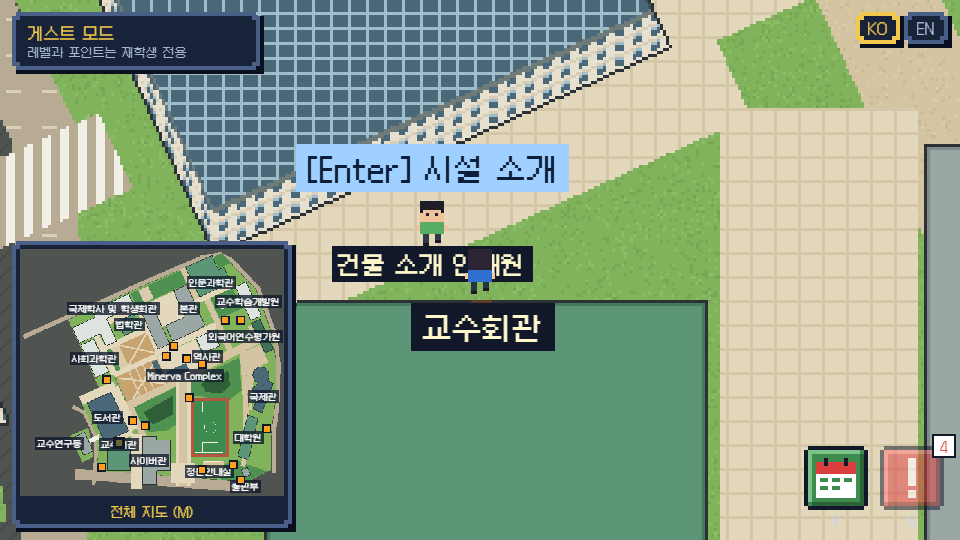
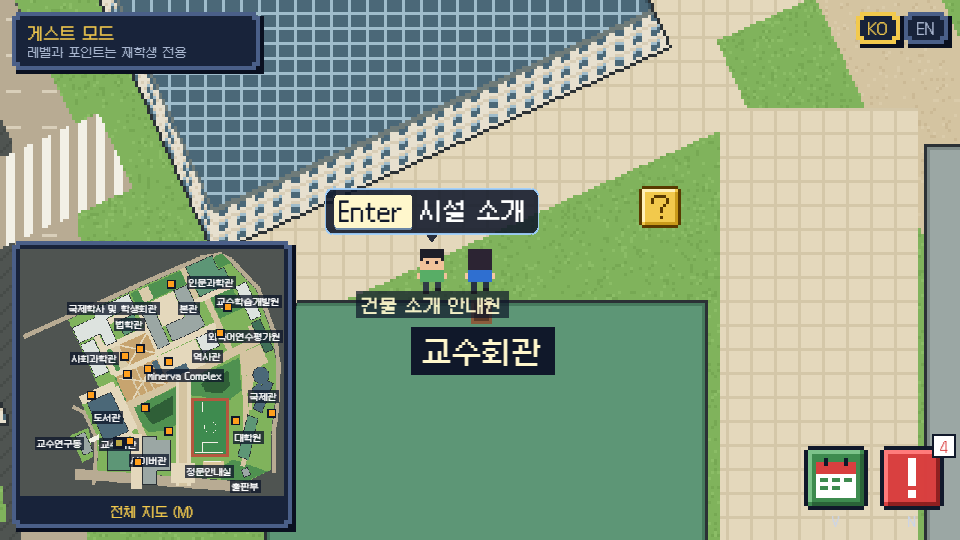
feat: 건물 소개 안내원을 문 바로 옆 칸으로, 문구를 작은 말풍선 · 발밑 이름표로
- 위치(11/26 #75 검토): 문 앞 칸에서 한 칸(16px) 옆, 문과 같은 외벽 앞. 두 옆 칸이 모두 막히면 예전 자리(GUIDE_FALLBACK).
  국제관은 꺾인 외벽 안쪽이라 두 옆 칸이 모두 안 돼 예전 자리 그대로. Minerva Complex는 이름표 옆 그대로
- 문구: "[Enter] 시설 소개"를 남색 반투명 작은 말풍선(얇은 하늘색 테두리 · 꼬리) + Enter 키 모양으로(src/ui/guidePrompt.js, 8px),
  "건물 소개 안내원"은 발밑 작은 이름표(6px, 반투명 남색). 글꼴 Galmuri9, 색은 HUD 색. 터치 · 영어도 같은 모양, 퀴즈 문구는 그대로
- 테스트: 문 바로 옆 칸(16px, 같은 외벽), 예전 자리는 국제관뿐, 교수회관 위치. 11/25 "교수회관 글자 지붕 밖" 테스트는 새 위치 규칙과 맞지 않아 위치 테스트로 바꿈
- 스크린샷: 전후 4곳(style-*), 휴대폰 가로 한/영, 퀴즈 문구와 함께, 건물별 14장 다시 찍음

diff --git a/src/data/guides.js b/src/data/guides.js
@@ -6,16 +6,17 @@ import { estimateLabelSize, placeBuildingLabel, splitTwoLines } from "./building
  * 맵 v2에서 "건물 소개 안내원"(정문 옆 NPC)을 세울 자리를 정합니다(브라우저 API 없음 → 테스트 가능).
  * 대상: 사무실 안내가 있는 건물(officeView.js hasOfficeInfo, 제외 목록 GUIDE_EXCLUDED의 정문안내실은 빠짐).
  *       정문을 지정한 11개 건물(DOOR_OVERRIDES)과 법학관(자동 계산 정문) — 11/25 종헌 결정.
- * - 문 앞 칸 옆(문을 바라보고 섰을 때 옆쪽): 아래 · 위쪽 면의 문은 좌우로, 왼쪽 · 오른쪽 면의 문은 위아래로 16 · 24 · 32px.
- *   벽에서 한두 칸(8 · 16px) 물러선 자리도 후보로 봅니다(꺾인 외벽 · 글자가 지붕에 걸치는 자리, 예: 교수회관).
- * - 걸어서 닿는 칸, 어느 문 앞 칸과도 겹치지 않음, 안내원 칸을 막아도 주변 길이 끊기지 않음.
- * - 그 가운데 안내원 아래 글자가 건물 지붕을 가장 적게 덮는 자리(글자는 되도록 땅 위). 같으면 벽에 붙은 자리 · 문에 가까운 자리.
+ * - 11/26 #75 검토(종헌): 문 그림 바로 옆 칸(문과 같은 외벽 앞, 문 앞 칸에서 한 칸 = 16px 옆). 아래 · 위쪽 면의 문은 좌우로,
+ *   왼쪽 · 오른쪽 면의 문은 위아래로. 두 옆 칸이 모두 되면 안내원 글자가 지붕을 덜 덮는 쪽.
+ * - 조건: 걸어서 닿는 칸, 어느 문 앞 칸과도 겹치지 않음, 안내원 칸을 막아도 주변 길이 끊기지 않음.
+ * - 두 옆 칸이 모두 안 되면 예전 규칙(문 앞 칸에서 16~32px, 벽에서 0~16px 물러선 자리 중 글자가 지붕을 가장 적게 덮는 곳)으로
+ *   두고 GUIDE_FALLBACK에 남깁니다(보고용).
  * - 건물 이름표는 이 글자 칸을 피해 자리를 잡습니다(buildingLabels.js placeBuildingLabel의 avoid).
  * - 예외 GUIDE_NEAR_LABEL(Minerva Complex): 정문 대신 맵 위 건물 이름표 바로 옆(걸을 수 있는 칸)에 섭니다.
  * 맵 다각형 · 충돌 판정은 바꾸지 않고 읽기만 합니다. 안내원 칸은 CampusScene이 이동할 때만 막습니다.
  */
-export const GUIDE_TEXT_HALF = 40; // 안내원 아래 글자 칸 가로 반폭(px). "건물 소개 안내원" 8px 글씨 + 여백보다 조금 넓게
-export const guideTextRect = (g) => ({ x0: g.x - GUIDE_TEXT_HALF, x1: g.x + GUIDE_TEXT_HALF, y0: g.y + 8, y1: g.y + 20 });
+export const GUIDE_TEXT_HALF = 30; // 안내원 발밑 이름표 칸 가로 반폭(px). "건물 소개 안내원" 6px 글씨 + 여백보다 조금 넓게
+export const guideTextRect = (g) => ({ x0: g.x - GUIDE_TEXT_HALF, x1: g.x + GUIDE_TEXT_HALF, y0: g.y + 7, y1: g.y + 17 });
 const overlaps = (a, b) => a.x0 < b.x1 && b.x0 < a.x1 && a.y0 < b.y1 && b.y0 < a.y1;
 
 // 안내원 칸을 막았을 때 그 둘레(24px 안)의 갈 수 있는 격자점이 서로 이어져 있는지(가로세로 64px 창 안에서 확인)
@@ -87,6 +88,9 @@ function spotNearLabel(building) {
 }
 
 const spots = new Map();
+const BESIDE = 16; // 문 앞 칸에서 한 칸 옆
+// 문 바로 옆 두 칸이 모두 안 돼 예전 규칙으로 둔 건물(보고용)
+export const GUIDE_FALLBACK = new Set();
 export function guideSpotOf(building) {
   if (spots.has(building.id)) return spots.get(building.id);
   if (Object.hasOwn(GUIDE_NEAR_LABEL, building.id)) {
@@ -101,6 +105,24 @@ export function guideSpotOf(building) {
     const along = face === "left" || face === "right" ? [0, 1] : [1, 0];
     const outward = { down: [0, 1], up: [0, -1], right: [1, 0], left: [-1, 0] }[face];
     const fronts = BUILDINGS.map(doorFrontOf).filter(Boolean);
+    const usable = (spot) =>
+      fits(spot.x, spot.y) &&
+      isReachable(spot.x, spot.y) &&
+      !fronts.some((f) => feetOverlap(f.x, f.y, spot.x, spot.y) || Math.hypot(f.x - spot.x, f.y - spot.y) < 12) &&
+      keepsPathsOpen(spot);
+    // 1순위: 문 바로 옆 칸(같은 외벽 앞, 한 칸 = 16px 옆)
+    for (const off of [-BESIDE, BESIDE]) {
+      const spot = { x: front.x + along[0] * off, y: front.y + along[1] * off };
+      if (!usable(spot)) continue;
+      const roof = roofUnder(guideTextRect(spot));
+      if (!best || roof < best.roof) best = { ...spot, roof };
+    }
+    if (best) {
+      const found = { x: best.x, y: best.y };
+      spots.set(building.id, found);
+      return found;
+    }
+    GUIDE_FALLBACK.add(building.id);
     const offsets = [0, 8, 16].flatMap((out) => [-16, 16, -24, 24, -32, 32].map((off) => [off, out]));
     for (const [off, out] of offsets) {
       const spot = { x: front.x + along[0] * off + outward[0] * out, y: front.y + along[1] * off + outward[1] * out };

diff --git a/src/scenes/CampusScene.js b/src/scenes/CampusScene.js
@@ -4,6 +4,7 @@ import { buildCampusLayers } from "../data/campus.js";
 import { WORLD, findPlace } from "../data/world.js";
 import { feetOverlap } from "../data/campusV2.js";
 import { guideTextRect } from "../data/guides.js";
+import { GuidePrompt } from "../ui/guidePrompt.js";
 import { addCampusV2Ground, stats as campusStats } from "../gfx/campusV2Texture.js";
 import { placeBuildingLabel, splitTwoLines } from "../data/buildingLabels.js";
 import { isTouchDevice } from "../device.js";
@@ -30,9 +31,9 @@ const IDLE_FRAME = { down: 0, up: 2, left: 4, right: 6 };
 // 이름표는 땅(-10) 바로 위: 캐릭터 · NPC · 퀴즈 상자(깊이 = y 좌표)보다 아래에 그려 가리지 않습니다.
 // "건물 소개 안내원" 글자도 땅 위 글자라 이름표 바로 위(-4), 캐릭터가 지나가면 캐릭터가 위에 그려집니다.
 const DEPTH = { NAME_TAG: -5, GUIDE_LABEL: -4, DEST_ARROW: 5002, QUIZ_PROMPT: 5003, OFFICE_PROMPT: 5004 };
-const OFFICE_PROMPT_ABOVE_GUIDE = 10; // [Enter] 시설 소개 문구를 안내원 가운데보다 이만큼 위(머리 위)에 띄웁니다.
+const OFFICE_PROMPT_ABOVE_GUIDE = 9; // [Enter] 시설 소개 말풍선 꼬리 끝을 안내원 가운데보다 이만큼 위(머리 바로 위)에 둡니다.
 const GUIDE_LOOK = "npc-1"; // 건물 소개 안내원 모양(src/gfx/textures.js NPC_LOOKS, 11명 모두 같음)
-const GUIDE_LABEL_FONT = 8;
+const GUIDE_LABEL_FONT = 6; // 안내원 발밑 이름표(11/26: 8px → 6px, 건물 이름표 10px보다 확실히 작게)
 const NAME_TAG_FONT = 10;
 const ARROW_ABOVE_DOOR = 26;
 const PLANNER_RANGE = 6 * TILE_SIZE;
@@ -97,22 +98,10 @@ export class CampusScene extends Phaser.Scene {
       .setDepth(DEPTH.QUIZ_PROMPT)
       .setVisible(false);
 
-    // 건물 소개 안내원에게 가까이 가면 머리 위에 뜨는 "[Enter] 시설 소개" 문구입니다. 터치 화면은 문구를 누르면 열립니다.
+    // 건물 소개 안내원에게 가까이 가면 머리 위에 뜨는 "[Enter] 시설 소개" 말풍선(src/ui/guidePrompt.js)입니다. 터치 화면은 말풍선을 누르면 열립니다.
     this.officePlace = null;
-    this.officePrompt = this.add
-      .text(0, 0, "", {
-        fontFamily: "Galmuri9, sans-serif",
-        fontSize: "10px",
-        color: "#0b1f3a",
-        backgroundColor: "#9fd0ff",
-        padding: { x: 4, y: 2 },
-        resolution: CAMERA_ZOOM,
-      })
-      .setOrigin(0.5, 1)
-      .setDepth(DEPTH.OFFICE_PROMPT)
-      .setVisible(false)
-      .setInteractive({ useHandCursor: true });
-    this.officePrompt.on("pointerdown", () => {
+    this.officePrompt = new GuidePrompt(this, CAMERA_ZOOM).setDepth(DEPTH.OFFICE_PROMPT).setVisible(false);
+    this.officePrompt.on("tap", () => {
       if (this.officePlace) this.openOffice(this.officePlace.id);
     });
 
@@ -259,8 +248,9 @@ export class CampusScene extends Phaser.Scene {
     this.officePlace = place;
     this.officePrompt.setVisible(Boolean(place));
     if (!place) return null;
-    const hint = t(isTouchDevice() ? "officeKeyHintTouch" : "officeKeyHint");
-    this.officePrompt.setText(`${hint} ${t("officePrompt")}`).setPosition(place.guide.x, place.guide.y - OFFICE_PROMPT_ABOVE_GUIDE);
+    // 키 이름은 괄호 없이 키 모양 안에: "[Enter]" → Enter, "[터치]" → 터치
+    const hint = t(isTouchDevice() ? "officeKeyHintTouch" : "officeKeyHint").replace(/[[\]]/g, "");
+    this.officePrompt.setContent(hint, t("officePrompt")).setPosition(place.guide.x, place.guide.y - OFFICE_PROMPT_ABOVE_GUIDE);
     if (this.quizPrompt.visible) {
       const a = this.officePrompt.getBounds();
       const b = this.quizPrompt.getBounds();
@@ -373,15 +363,16 @@ export class CampusScene extends Phaser.Scene {
       if (this.officePlace === place && this.officePrompt.visible) this.openOffice(place.id);
     });
     const label = this.add
-      .text(x, y + 8, t("guideLabel"), {
+      .text(x, y + 7, t("guideLabel"), {
         fontFamily: "Galmuri9, sans-serif",
         fontSize: `${GUIDE_LABEL_FONT}px`,
         color: "#fff7cc",
-        backgroundColor: "#10182a",
-        padding: { x: 2, y: 1 },
+        backgroundColor: "rgba(16, 24, 42, 0.78)",
+        padding: { x: 2, y: 0.5 },
         resolution: CAMERA_ZOOM,
       })
       .setOrigin(0.5, 0)
+      .setAlpha(0.92)
       .setDepth(DEPTH.GUIDE_LABEL);
     if (solidLayer) {
       this.physics.add.existing(sprite, true);

diff --git a/tests/buildingGuide.test.js b/tests/buildingGuide.test.js
@@ -23,7 +23,7 @@ import {
 } from "../src/data/campusV2.js";
 import { DOOR_OVERRIDES } from "../src/data/campusV2Data.js";
 import { WORLD } from "../src/data/world.js";
-import { GUIDE_NEAR_LABEL, GUIDE_TEXT_HALF, guideTextRect, guideTextRects } from "../src/data/guides.js";
+import { GUIDE_FALLBACK, GUIDE_NEAR_LABEL, GUIDE_TEXT_HALF, guideTextRect, guideTextRects } from "../src/data/guides.js";
 import { estimateLabelSize, placeBuildingLabel, splitTwoLines } from "../src/data/buildingLabels.js";
 import { setLang, t } from "../src/state.js";
 import { BUILDING_INFO } from "../src/data/buildingInfo.js";
@@ -102,8 +102,10 @@ test("정문안내실(gatehouse)에는 안내원이 없고, 다가가도 시설 
   assert.ok(!guides().some((b) => b.id === "gatehouse"));
 });
 
-test("건물 소개 안내원: 문 앞 칸 옆(문과 나란한 쪽으로 16~32px, 벽에서 최대 16px 물러섬), 걸을 수 있는 칸이고 어느 문 앞도 막지 않음", () => {
+test("건물 소개 안내원(11/26): 문 그림 바로 옆 칸(같은 외벽 앞, 문 앞 칸에서 한 칸 = 16px), 걸을 수 있고 어느 문 앞도 막지 않음", () => {
   const fronts = BUILDINGS.map(doorFrontOf).filter(Boolean);
+  // 두 옆 칸이 모두 막혀 예전 자리에 둔 건물: 국제관(꺾인 외벽 안쪽, 한쪽은 벽 · 다른 쪽은 길을 끊음)
+  assert.deepEqual([...GUIDE_FALLBACK].sort(), ["intl"]);
   for (const b of guides()) {
     if (GUIDE_NEAR_LABEL[b.id]) continue; // Minerva Complex는 이름표 옆(위 테스트)
     const { x, y } = b.guide;
@@ -111,7 +113,8 @@ test("건물 소개 안내원: 문 앞 칸 옆(문과 나란한 쪽으로 16~32p
     const vertical = b.door.face === "left" || b.door.face === "right";
     const along = Math.abs(vertical ? y - front.y : x - front.x);
     const away = Math.abs(vertical ? x - front.x : y - front.y);
-    assert.ok(along >= 16 && along <= 32 && away <= 16, `${b.id}: 안내원이 문 옆이 아님 (${x}, ${y})`);
+    if (GUIDE_FALLBACK.has(b.id)) assert.ok(along >= 16 && along <= 32 && away <= 16, `${b.id}: 예전 규칙 자리 (${x}, ${y})`);
+    else assert.ok(along === 16 && away === 0, `${b.id}: 안내원이 문 바로 옆 칸이 아님 (${x}, ${y})`);
     assert.ok(fits(x, y) && isReachable(x, y), `${b.id}: 안내원 자리에 못 감`);
     for (const f of fronts) assert.ok(!feetOverlap(f.x, f.y, x, y), `${b.id}: 안내원이 문 앞 칸과 겹침`);
   }
@@ -183,10 +186,13 @@ test("건물 소개 안내원 글자: 건물 이름표(한/영) · 퀴즈 상자
   }
 });
 
-test("교수회관 안내원 글자는 지붕에 걸리지 않음(벽에서 물러선 자리)", () => {
+// 11/26 #75 검토: "문 바로 옆 칸"이 "글자가 지붕에 걸리지 않게 물러서기"(11/25)보다 우선.
+// 교수회관은 문이 건물 위쪽 면이라 발밑 이름표 아래쪽이 초록 지붕 끝에 조금 걸림(이름표를 작게 줄여 덜 튐)
+test("교수회관 안내원은 문 바로 옆 칸(위쪽 면 문의 왼쪽 또는 오른쪽 16px)", () => {
   const club = WORLD.buildings.find((b) => b.id === "club");
-  const r = guideTextRect(club.guide);
-  for (let y = r.y0; y < r.y1; y += 1) for (let x = r.x0; x < r.x1; x += 1) assert.ok(matAt(x, y) < BUILDING_BASE, `(${x}, ${y})가 건물 위`);
+  const front = doorFrontOf(BUILDINGS.find((b) => b.id === "club"));
+  assert.equal(club.guide.y, front.y);
+  assert.equal(Math.abs(club.guide.x - front.x), 16);
 });
 
 test("문구: [Enter] 시설 소개 · [터치] 시설 소개, 안내원 글자 (한/영)", () => {

diff --git a/src/ui/guidePrompt.js b/src/ui/guidePrompt.js
@@ -1,0 +1,62 @@
+import Phaser from "phaser";
+
+/*
+ * 건물 소개 안내원 머리 위 "[Enter] 시설 소개" 말풍선(11/26 #75 검토).
+ * - 어두운 남색 반투명 작은 말풍선(모서리 살짝 둥글게, 얇은 밝은 테두리, 아래로 짧은 꼬리) + 흰 글자
+ * - "Enter"(터치 화면은 "터치" · "Tap")는 밝은 바탕의 짧은 키 모양으로 따로
+ * - 글꼴은 게임 글자와 같은 Galmuri9, 색은 HUD 색(남색 #10182a · 하늘색 #9fd0ff · 크림 #fff7cc)
+ * 위치 (x, y)는 말풍선 꼬리 끝(아래 가운데)입니다. 말풍선을 누르면(터치 포함) "tap" 이벤트를 보냅니다.
+ */
+const COLOR = { bubble: 0x10182a, border: 0x9fd0ff, key: 0xfff7cc, keyText: "#10182a", text: "#ffffff" };
+const FONT_PX = 8; // 예전 문구(10px)의 80%
+const PAD = { x: 3, y: 2 };
+const GAP = 3; // 키 모양과 글자 사이
+const TAIL = 3; // 아래 꼬리 높이
+
+export class GuidePrompt extends Phaser.GameObjects.Container {
+  constructor(scene, resolution) {
+    super(scene, 0, 0);
+    const style = (color) => ({ fontFamily: "Galmuri9, sans-serif", fontSize: `${FONT_PX}px`, color, resolution });
+    this.bg = scene.add.graphics();
+    this.keyText = scene.add.text(0, 0, "", style(COLOR.keyText)).setOrigin(0, 0.5);
+    this.label = scene.add.text(0, 0, "", style(COLOR.text)).setOrigin(0, 0.5);
+    // 누르는 영역(말풍선 전체). 컨테이너 자식 Zone이라 카메라 확대와 상관없이 맞게 눌립니다.
+    this.hit = scene.add.zone(0, 0, 1, 1).setOrigin(0.5, 1).setInteractive({ useHandCursor: true });
+    this.hit.on("pointerdown", () => this.emit("tap"));
+    this.add([this.bg, this.keyText, this.label, this.hit]);
+    scene.add.existing(this);
+  }
+
+  // hint: 키 이름("Enter" · "터치" · "Tap"), text: "시설 소개" · "Facility guide"
+  setContent(hint, text) {
+    if (this.hint === hint && this.text === text) return this;
+    this.hint = hint;
+    this.text = text;
+    this.keyText.setText(hint);
+    this.label.setText(text);
+    const keyW = this.keyText.width + 4;
+    const keyH = this.keyText.height + 1;
+    const w = PAD.x + keyW + GAP + this.label.width + PAD.x;
+    const h = Math.max(keyH, this.label.height) + PAD.y * 2;
+    const top = -TAIL - h;
+    const left = -w / 2;
+    const midY = top + h / 2;
+    const g = this.bg.clear();
+    g.fillStyle(COLOR.bubble, 0.88);
+    g.fillRoundedRect(left, top, w, h, 2.5);
+    g.fillTriangle(-2.5, -TAIL - 0.5, 2.5, -TAIL - 0.5, 0, 0);
+    g.lineStyle(0.6, COLOR.border, 0.9);
+    g.strokeRoundedRect(left, top, w, h, 2.5);
+    // 키 모양: 크림색 짧은 사각형 + 아래쪽 그림자 한 줄
+    const keyX = left + PAD.x;
+    g.fillStyle(COLOR.border, 0.55);
+    g.fillRoundedRect(keyX, midY - keyH / 2 + 0.7, keyW, keyH, 1.2);
+    g.fillStyle(COLOR.key, 1);
+    g.fillRoundedRect(keyX, midY - keyH / 2, keyW, keyH, 1.2);
+    this.keyText.setPosition(keyX + 2, midY);
+    this.label.setPosition(keyX + keyW + GAP, midY);
+    this.hit.setSize(w, h + TAIL).setPosition(0, 0);
+    if (this.hit.input) this.hit.input.hitArea.setSize(w, h + TAIL);
+    return this;
+  }
+}

diff --git a/docs/ARCHITECTURE.md b/docs/ARCHITECTURE.md
@@ -96,7 +96,7 @@ class explore,quiz,notice,progress,rules,userDb,login,limiter,mapInfo,newApi,vec
 
 | 상자 | 주요 파일 | 담당 |
 | --- | --- | --- |
-| 캠퍼스 탐험 | `src/scenes/CampusScene.js`, `src/scenes/MapScene.js`(전체 지도 · 나침반), `src/data/world.js`(맵 선택: 기본 v2, `?map=v1`이면 옛 타일맵 — 12/2 동결 뒤 이상 없으면 v1 삭제). **v2**: `src/data/campusV2Data.js`(미터 좌표 다각형) → `src/data/campusV2.js`(정문 진입로 기준 65.6° 회전 · 픽셀 채우기 · 1m 판정 격자 · 발 상자 이동 · 입구 · 퀴즈 상자 자리) → `src/gfx/campusV2Paint.js` · `campusV2Texture.js`(2×2 조각 텍스처, 축소 지도). **v1**: `src/data/campus.js`(88×90 타일), `src/gfx/textures.js`. 기준은 [`docs/GRAPHICS.md`](GRAPHICS.md). 건물 이름표: `src/data/buildingLabels.js`(입구에 가까운 지붕 위, 넘치면 작게 → 두 줄 → 지붕 가운데, 캐릭터보다 아래 깊이, 안내원 글자 칸은 피함). **정문 고정값**: `campusV2Data.js` `DOOR_OVERRIDES`(11개 건물, 11/25 종헌 지정 자리 · 외벽 면) → `campusV2.js` `computeDoors`가 자동 입구를 덮어씀, 문 그림은 면 방향대로. **건물 소개 안내원**(13곳: 정문 지정 11곳 + 법학관 + Minerva Complex(정문 대신 이름표 옆, `guides.js` `GUIDE_NEAR_LABEL`), 정문안내실은 `officeView.js` `GUIDE_EXCLUDED`로 제외): `src/data/guides.js`(정문 옆 자리 · 글자 칸) → `world.js` `place.guide` → `CampusScene`(안내원 · "건물 소개 안내원" 글자 · 머리 위 "[Enter] 시설 소개", Enter · 안내원 클릭 · 문구 터치로 `src/ui/officeOverlay.js` 창, 거리 `src/ui/officeView.js` `GUIDE_RANGE`, 안내원 칸은 지나갈 수 없음). 테스트 `tests/buildingGuide.test.js` · `tests/campusV2.test.js`(통로 · 끼임 방지 포함) · `tests/buildingLabels.test.js` · `tests/campusDrawn.test.js`(모든 건물이 텍스처 · 축소 지도에 그려지고 윤곽선이 있는지, 두 줄 이름) · `tests/campusLayout.test.js`(v1) | 이종헌 |
+| 캠퍼스 탐험 | `src/scenes/CampusScene.js`, `src/scenes/MapScene.js`(전체 지도 · 나침반), `src/data/world.js`(맵 선택: 기본 v2, `?map=v1`이면 옛 타일맵 — 12/2 동결 뒤 이상 없으면 v1 삭제). **v2**: `src/data/campusV2Data.js`(미터 좌표 다각형) → `src/data/campusV2.js`(정문 진입로 기준 65.6° 회전 · 픽셀 채우기 · 1m 판정 격자 · 발 상자 이동 · 입구 · 퀴즈 상자 자리) → `src/gfx/campusV2Paint.js` · `campusV2Texture.js`(2×2 조각 텍스처, 축소 지도). **v1**: `src/data/campus.js`(88×90 타일), `src/gfx/textures.js`. 기준은 [`docs/GRAPHICS.md`](GRAPHICS.md). 건물 이름표: `src/data/buildingLabels.js`(입구에 가까운 지붕 위, 넘치면 작게 → 두 줄 → 지붕 가운데, 캐릭터보다 아래 깊이, 안내원 글자 칸은 피함). **정문 고정값**: `campusV2Data.js` `DOOR_OVERRIDES`(11개 건물, 11/25 종헌 지정 자리 · 외벽 면) → `campusV2.js` `computeDoors`가 자동 입구를 덮어씀, 문 그림은 면 방향대로. **건물 소개 안내원**(13곳: 정문 지정 11곳 + 법학관 + Minerva Complex(정문 대신 이름표 옆, `guides.js` `GUIDE_NEAR_LABEL`), 정문안내실은 `officeView.js` `GUIDE_EXCLUDED`로 제외): `src/data/guides.js`(문 바로 옆 칸 · 발밑 이름표 칸) → `world.js` `place.guide` → `CampusScene`(안내원 · 발밑 "건물 소개 안내원" 작은 이름표 · 머리 위 말풍선 `src/ui/guidePrompt.js` "[Enter] 시설 소개"(남색 반투명 + 키 모양), Enter · 안내원 클릭 · 문구 터치로 `src/ui/officeOverlay.js` 창, 거리 `src/ui/officeView.js` `GUIDE_RANGE`, 안내원 칸은 지나갈 수 없음). 테스트 `tests/buildingGuide.test.js` · `tests/campusV2.test.js`(통로 · 끼임 방지 포함) · `tests/buildingLabels.test.js` · `tests/campusDrawn.test.js`(모든 건물이 텍스처 · 축소 지도에 그려지고 윤곽선이 있는지, 두 줄 이름) · `tests/campusLayout.test.js`(v1) | 이종헌 |
 | 빠른 검색창 | `src/ui/searchBar.js` → `src/data/askApi.js` → `api/ask.js` (11/20~ `shared/academicDate.js`: 한국 시간 오늘 날짜 · 현재 학기를 지시문에 붙이고, 답변의 날짜(연-월-일 · 월-일)나 연도(YYYY학년도 · YYYY년)가 근거 조각에 없으면 "찾지 못함"으로 바꿈. 테스트 `tests/academicDate.test.js`. 11/20~ `api/_lib/decompose.js`: 질문을 하위 질문 최대 2개로 쪼개(`parseQueries`) 하위 질문마다 동시에 벡터 검색하고 `mergeDocs`로 합침, RPC는 `CHUNKS_RPC`(match_chunks · match_chunks_next만 허용). 테스트 `tests/decompose.test.js`. `api/_lib/answerFormat.js`: 답변의 줄 맨 앞 번호 목록을 지우고, 넘긴 자료 수를 넘는 인용 번호를 지움. 11/22~ 출력 상한(400)에 걸려 끊긴 답은 끝난 문장까지만(`trimTruncated`). 테스트 `tests/answerFormat.test.js`) | 신중혁 |
 | O/X 퀴즈 | `src/scenes/QuizScene.js`, `src/quizBoxes.js`(상자 자리는 `world.js` `WORLD.quizSpots`), `src/quizProgress.js`, `src/data/quiz.js` | 이종헌(배치) · 신중혁(문항) |
 | 마감 임박 공지 | `src/ui/deadlineOverlay.js` → `api/deadlines.js` ← `shared/deadlines.js` | 이종헌(화면) · 임현규(데이터) · 신중혁(추출) |

diff --git a/docs/ROADMAP.md b/docs/ROADMAP.md
@@ -380,3 +380,4 @@ gantt
 | 2026-11-24 | 11/24 대회 안내 메일 반영: 지원금 3종(개발지원비 50만 · AI툴 지원금 20만 12/1 · NCP 크레딧 50만 상당, 증빙 없음), 12/1 AI툴 지원금 마일스톤(예비비로), 12/6 제출물 2가지(PPT · 결과물 링크), 발표 10분 + 질의응답 5분, 12/2 전 시연 영상 · 스크린샷 확보 | 이종헌 |
 | 2026-11-25 | #71 사무실 안내 창 피드백 반영: 동아리방 · 학과사무실 묶음 항목(층 → 묶음 → 목록 → 상세), 지하층 · 건물 밖 묶음, 호실만 표시, 88p 전화, AED 삭제, 외부 참고 출처 | 이종헌 |
 | 2026-11-25 | 11개 건물 정문 위치를 종헌 지정 자리(스크린샷 11장 · 게임 화면 대조)로 고정(`DOOR_OVERRIDES`), 정문 옆 "건물 소개 안내원" NPC 11명 → "[Enter] 시설 소개"(이전 "[주요 기능 알아보기]")로 사무실 안내 창, 정문 쪽 문구 삭제. 11/25 결정: 법학관에도 안내원(자동 계산 정문 옆), 정문안내실은 안내원 · 시설 소개 없음(`GUIDE_EXCLUDED`, 건물 정보는 유지), 안내원 글자가 지붕에 걸리면 벽에서 한 칸 더 물러섬(교수회관 등). #71 피드백 위로 rebase, Minerva Complex 안내원을 맵 이름표 옆에 추가(13곳) | 이종헌 |
+| 2026-11-26 | #75 검토 반영: 안내원을 문 그림 바로 옆 칸으로(국제관은 두 옆 칸이 막혀 그대로), 문구 디자인(남색 반투명 말풍선 + Enter 키 모양 8px, 발밑 이름표 6px). #71 운영시간 추가 위로 rebase | 이종헌 |
